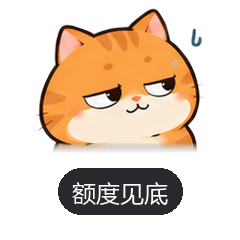
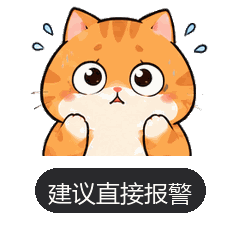
Expand the sticker pack from 8 to 24
- cut all 24 poses out of the new sheet; it has no alpha channel (the
  checkerboard is baked into the pixels), so separate them by hue: the
  board is neutral grey, the cat is warm. Verified 0 interior holes and
  0 pale-halo pixels across all 24 on magenta, dark and light
- 24 is a proper WeChat pack size, which removes the 'too few / same
  expression' review risk the 8-sticker version had
- add 16 new lines in the app's voice for the new poses
- quantised to 256 colours: the whole pack is 544KB
- the gallery now shows all 24 and can be shared as a link

Changed region(s): [[0.1167, 0.0292, 0.875, 0.6708], [0.1458, 0.7, 0.875, 0.9042]]

diff --git a/stickers/index.html b/stickers/index.html
@@ -5,7 +5,7 @@
 <meta name="viewport" content="width=device-width, initial-scale=1.0, viewport-fit=cover">
 <meta name="theme-color" content="#000000">
 <link rel="icon" href="../favicon.svg" type="image/svg+xml">
-<title>就一口 · 表情包</title>
+<title>就一口 · 表情包 24 张</title>
 <style>
   :root { --line: rgba(255,255,255,.10); --t2: rgba(235,235,245,.60); --t3: rgba(235,235,245,.34); }
   * { margin:0; padding:0; box-sizing:border-box; -webkit-tap-highlight-color:transparent; }
@@ -33,19 +33,18 @@
     backdrop-filter:blur(30px) saturate(180%); -webkit-backdrop-filter:blur(30px) saturate(180%);
   }
   .hint b { color:#fff; font-weight:600; }
-  .grid { display:grid; grid-template-columns:repeat(2,1fr); gap:14px; }
+  .grid { display:grid; grid-template-columns:repeat(3,1fr); gap:10px; }
   figure {
-    background:rgba(28,28,30,.66); border:.5px solid var(--line); border-radius:20px;
-    padding:10px; margin:0; backdrop-filter:blur(30px) saturate(180%);
+    background:rgba(28,28,30,.66); border:.5px solid var(--line); border-radius:16px;
+    padding:6px; margin:0; backdrop-filter:blur(30px) saturate(180%);
     -webkit-backdrop-filter:blur(30px) saturate(180%);
   }
-  figure img { width:100%; height:auto; display:block; border-radius:14px; }
-  figcaption { font-size:12px; color:var(--t2); padding:8px 2px 2px; text-align:center; }
+  figure img { width:100%; height:auto; display:block; border-radius:11px; }
+  figcaption { font-size:10px; color:var(--t2); padding:5px 1px 1px; text-align:center; line-height:1.3; }
   .sec { font-size:13px; font-weight:600; color:var(--t2); letter-spacing:.06em;
          text-transform:uppercase; margin:30px 2px 12px; }
   .banner { width:100%; height:auto; border-radius:18px; display:block;
             border:.5px solid var(--line); }
-  .wide { grid-template-columns:1fr; }
   footer { font-size:12px; color:var(--t3); margin-top:30px; line-height:1.7; }
   a { color:#0a84ff; text-decoration:none; }
 </style>
@@ -53,25 +52,44 @@
 <body>
 <header>
   <h1>就一口</h1>
-  <div class="sub">没吃多少 · 表情包 · 一套 8 张</div>
+  <div class="sub">没吃多少 · 表情包 · 一套 24 张</div>
 </header>
-
 <main>
   <div class="hint">
     <b>手机上长按任意一张，选「保存图片」</b>即可存进相册。<br>
-    电脑上右键另存为。整套打包在 <a href="https://github.com/iorlchotae/not-that-much">GitHub 仓库</a> 的 <code>stickers/</code> 里。
+    整套打包在 <a href="https://github.com/iorlchotae/not-that-much">GitHub 仓库</a> 的 <code>stickers/</code>（含 240×240 无文字版）。
   </div>
 
-  <div class="sec">表情 01–08</div>
-  <div class="grid" id="grid"></div>
+  <div class="sec">表情 01–24</div>
+  <div class="grid">
+    <figure><img src="caption/01.png" alt="得意：还很宽裕～" loading="lazy"><figcaption>01 得意 · 还很宽裕～</figcaption></figure>
+    <figure><img src="caption/02.png" alt="心虚：额度见底" loading="lazy"><figcaption>02 心虚 · 额度见底</figcaption></figure>
+    <figure><img src="caption/03.png" alt="满足：一切正常" loading="lazy"><figcaption>03 满足 · 一切正常</figcaption></figure>
+    <figure><img src="caption/04.png" alt="震惊：建议直接报警" loading="lazy"><figcaption>04 震惊 · 建议直接报警</figcaption></figure>
+    <figure><img src="caption/05.png" alt="馋：就一口" loading="lazy"><figcaption>05 馋 · 就一口</figcaption></figure>
+    <figure><img src="caption/06.png" alt="睡觉：今天还一口没动" loading="lazy"><figcaption>06 睡觉 · 今天还一口没动</figcaption></figure>
+    <figure><img src="caption/07.png" alt="刷手机：先记一下再说" loading="lazy"><figcaption>07 刷手机 · 先记一下再说</figcaption></figure>
+    <figure><img src="caption/08.png" alt="大口吃：补充能量而已" loading="lazy"><figcaption>08 大口吃 · 补充能量而已</figcaption></figure>
+    <figure><img src="caption/09.png" alt="偷看：我就瞄一眼" loading="lazy"><figcaption>09 偷看 · 我就瞄一眼</figcaption></figure>
+    <figure><img src="caption/10.png" alt="吃饱了：真的饱了（并没有）" loading="lazy"><figcaption>10 吃饱了 · 真的饱了（并没有）</figcaption></figure>
+    <figure><img src="caption/11.png" alt="超标了：今天到此为止" loading="lazy"><figcaption>11 超标了 · 今天到此为止</figcaption></figure>
+    <figure><img src="caption/12.png" alt="算了吧：明天一定" loading="lazy"><figcaption>12 算了吧 · 明天一定</figcaption></figure>
+    <figure><img src="caption/13.png" alt="喝饮料：这个不算热量吧" loading="lazy"><figcaption>13 喝饮料 · 这个不算热量吧</figcaption></figure>
+    <figure><img src="caption/14.png" alt="再来一口：最后一口" loading="lazy"><figcaption>14 再来一口 · 最后一口</figcaption></figure>
+    <figure><img src="caption/15.png" alt="清盘：不能浪费" loading="lazy"><figcaption>15 清盘 · 不能浪费</figcaption></figure>
+    <figure><img src="caption/16.png" alt="自我安慰：没吃多少" loading="lazy"><figcaption>16 自我安慰 · 没吃多少</figcaption></figure>
+    <figure><img src="caption/17.png" alt="生气：谁动了我的额度" loading="lazy"><figcaption>17 生气 · 谁动了我的额度</figcaption></figure>
+    <figure><img src="caption/18.png" alt="委屈：我真的没吃多少" loading="lazy"><figcaption>18 委屈 · 我真的没吃多少</figcaption></figure>
+    <figure><img src="caption/19.png" alt="打滚：吃撑了，动不了" loading="lazy"><figcaption>19 打滚 · 吃撑了，动不了</figcaption></figure>
+    <figure><img src="caption/20.png" alt="享受：这一口值了" loading="lazy"><figcaption>20 享受 · 这一口值了</figcaption></figure>
+    <figure><img src="caption/21.png" alt="盯着：盯久了就不饿了" loading="lazy"><figcaption>21 盯着 · 盯久了就不饿了</figcaption></figure>
+    <figure><img src="caption/22.png" alt="装酷：减肥这事我很在行" loading="lazy"><figcaption>22 装酷 · 减肥这事我很在行</figcaption></figure>
+    <figure><img src="caption/23.png" alt="好吧…：那就明天再减" loading="lazy"><figcaption>23 好吧… · 那就明天再减</figcaption></figure>
+    <figure><img src="caption/24.png" alt="生活很美好：吃饱了才有力气减" loading="lazy"><figcaption>24 生活很美好 · 吃饱了才有力气减</figcaption></figure>
+  </div>
 
   <div class="sec">横版图</div>
-  <div class="grid wide">
-    <figure>
-      <img src="banner@2x.png" alt="吃得再多 也要装作没吃多少">
-      <figcaption>吃得再多，也要装作没吃多少</figcaption>
-    </figure>
-  </div>
+  <img class="banner" src="banner@2x.png" alt="吃得再多 也要装作没吃多少">
 
   <footer>
     角色「就一口」——一只对自己的食量毫无正确认知的橘猫。<br>
@@ -79,15 +97,5 @@
     App 在 <a href="../">这里</a>。
   </footer>
 </main>
-
-<script>
-  const CAP = ['还很宽裕～','一切正常','就一口','额度见底','今日份自律','不怪食物，怪我嘴','建议直接报警','今天还一口没动'];
-  const ZH  = ['得意','满足','馋','心虚','害羞','委屈','震惊','睡觉'];
-  document.getElementById('grid').innerHTML = CAP.map((c, i) => {
-    const n = String(i + 1).padStart(2, '0');
-    return `<figure><img src="caption/${n}.png" alt="${ZH[i]}：${c}" loading="lazy">
-            <figcaption>${n} ${ZH[i]} · ${c}</figcaption></figure>`;
-  }).join('');
-</script>
 </body>
 </html>

diff --git a/stickers/文案对照表.md b/stickers/文案对照表.md
@@ -1,28 +1,42 @@
-# 没吃多少 · 表情包《就一口》
+# 没吃多少 · 表情包《就一口》· 24 张
 
-角色：橘猫「就一口」。
-打包日期：2026-10-01
+角色：橘猫「就一口」。数量 **24 张**，是微信表情开放平台的正规规格（8 / 16 / 24 / 32 / 40）。
 
 ---
 
-## 一、8 张表情与文案对照
+## 一、24 张表情与文案对照
 
-上传时按顺序拖入主图，再把「中文说明」逐个填进平台的表情说明栏。
+上传时先拖主图，再把「中文说明」逐条填进平台的表情说明栏。
 
 | 编号 | 文件 | 表情 | 中文说明（填平台） |
 | --- | --- | --- | --- |
 | 01 | `main/01.png` | 得意 | 还很宽裕～ |
-| 02 | `main/02.png` | 满足 | 一切正常 |
-| 03 | `main/03.png` | 馋 | 就一口 |
-| 04 | `main/04.png` | 心虚 | 额度见底 |
-| 05 | `main/05.png` | 害羞 | 今日份自律 |
-| 06 | `main/06.png` | 委屈 | 不怪食物，怪我嘴 |
-| 07 | `main/07.png` | 震惊 | 建议直接报警 |
-| 08 | `main/08.png` | 睡觉 | 今天还一口没动 |
+| 02 | `main/02.png` | 心虚 | 额度见底 |
+| 03 | `main/03.png` | 满足 | 一切正常 |
+| 04 | `main/04.png` | 震惊 | 建议直接报警 |
+| 05 | `main/05.png` | 馋 | 就一口 |
+| 06 | `main/06.png` | 睡觉 | 今天还一口没动 |
+| 07 | `main/07.png` | 刷手机 | 先记一下再说 |
+| 08 | `main/08.png` | 大口吃 | 补充能量而已 |
+| 09 | `main/09.png` | 偷看 | 我就瞄一眼 |
+| 10 | `main/10.png` | 吃饱了 | 真的饱了（并没有） |
+| 11 | `main/11.png` | 超标了 | 今天到此为止 |
+| 12 | `main/12.png` | 算了吧 | 明天一定 |
+| 13 | `main/13.png` | 喝饮料 | 这个不算热量吧 |
+| 14 | `main/14.png` | 再来一口 | 最后一口 |
+| 15 | `main/15.png` | 清盘 | 不能浪费 |
+| 16 | `main/16.png` | 自我安慰 | 没吃多少 |
+| 17 | `main/17.png` | 生气 | 谁动了我的额度 |
+| 18 | `main/18.png` | 委屈 | 我真的没吃多少 |
+| 19 | `main/19.png` | 打滚 | 吃撑了，动不了 |
+| 20 | `main/20.png` | 享受 | 这一口值了 |
+| 21 | `main/21.png` | 盯着 | 盯久了就不饿了 |
+| 22 | `main/22.png` | 装酷 | 减肥这事我很在行 |
+| 23 | `main/23.png` | 好吧… | 那就明天再减 |
+| 24 | `main/24.png` | 生活很美好 | 吃饱了才有力气减 |
 
-文案全部取自 App 的文案库（`index.html` 里的
-`LADDER_LINES` / `GOOD_LINES` / `OVER_LINES` / `HIDDEN_LINES`），
-所以表情和 App 里同一天会说出口的话是一致的。
+文案延续 App 的文案库语气（`index.html` 里的 `LADDER_LINES` / `GOOD_LINES` / `OVER_LINES` / `HIDDEN_LINES`），
+所以表情和 App 里会说的话是同一套声音。
 
 ---
 
@@ -30,44 +44,43 @@
 
 | 目录 / 文件 | 尺寸 | 格式 | 用途 |
 | --- | --- | --- | --- |
-| `main/01–08.png` | 240×240 | PNG 透明底 | **表情主图**（无文字版） |
-| `caption/01–08.png` | 240×240 | PNG 透明底 | 图文版，**小红书传播用**（平台不传这个） |
-| `thumb/01–08.png` | 120×120 | PNG 透明底 | **表情缩略图** |
-| `cover.png` | 240×240 | PNG 透明底 | **表情封面图** |
+| `main/01–24.png` | 240×240 | PNG 透明底 | **表情主图**（无文字，平台提交用） |
+| `caption/01–24.png` | 240×240 | PNG 透明底 | 图文版，**小红书传播用**（不传平台） |
+| `thumb/01–24.png` | 120×120 | PNG 透明底 | **表情缩略图** |
+| `cover.png` | 240×240 | PNG 透明底 | **封面图**（用「自我安慰」那张举牌猫） |
 | `icon.png` | 50×50 | PNG 透明底 | **聊天页图标** |
 | `banner.png` | 750×400 | PNG | **详情页横幅** |
-| `banner@2x.png` | 1500×800 | PNG | 小红书用（平台不传） |
-| `preview.png` | — | PNG | 总览图，给合作方/自己看 |
+| `banner@2x.png` | 1500×800 | PNG | 高分辨率版，小红书用 |
+| `preview.png` | — | PNG | 总览图 |
 
-全部尺寸已用脚本逐张校验（`_preview.py` 的 format audit，28 项全 OK）。
+全部尺寸已逐张脚本校验（`_preview24.py`，0 failures）。整套 **544KB**。
 
 ---
 
 ## 三、平台提交顺序
 
-1. 先传 **横幅** `banner.png`（750×400）
-2. 选「静态表情」
-3. 拖入 **8 张主图** `main/01–08.png`
-4. 再拖入 **8 张缩略图** `thumb/01–08.png`
-5. 填 8 条中文说明（见上表）
-6. 传 **封面图** `cover.png` 和 **聊天页图标** `icon.png`
-7. 赞赏部分可跳过
-8. 提交审核
+1. 先传 **横幅** `banner.png`
+2. 选「静态表情」，数量选 **24**
+3. 拖入 24 张 **主图** `main/01–24.png`
+4. 再拖入 24 张 **缩略图** `thumb/01–24.png`
+5. 填 24 条中文说明（见上表）
+6. 传 **封面图** `cover.png` 与 **聊天页图标** `icon.png`
+7. 赞赏部分可跳过 → 提交审核
 
 ---
 
-## 四、必须知道的审核风险
+## 四、审核风险
 
-一位实际提交过的开发者[明确记录](https://www.cnblogs.com/loseself/p/16240569.html)：
-他做的**文字表情「通过不了审核」**，被拒理由是「**留白太多、表情单一**」。
+上一版只有 8 张时，我提示过「表情单一」可能被判不过（有开发者因[文字表情、留白太多、表情单一被拒](https://www.cnblogs.com/loseself/p/16240569.html)）。
+现在 **24 张、24 个不同动作**，这个问题基本解决了。
 
-所以这套图有两个真实风险：
+剩下的风险只有一个：**`caption/` 图文版的文字占比偏大**，容易被判成「文字表情」。
+所以平台提交**只传 `main/` 无文字版**；`caption/` 留着发小红书，不受平台审核约束。
 
-- **`caption/` 图文版有被拒风险。** 文字占比大、留白少，容易被判「文字表情」。
-  平台提交建议只传 `main/` 无文字版；`caption/` 留着自己发小红书。
-- **只有 8 张、且都是同一只猫的半身像**，可能被判「表情单一」。
-  平台接受 8 张，但 16 / 24 张过审更稳。如果被拒，最省事的补救是补到 16 张
-  （三视图里的正面/侧面/背面 + 睡觉、馋等可以各拆一张）。
+---
 
-**如果最终目的是小红书传播而不是上架微信表情商店**，那可以直接用 `caption/` 那 8 张 ——
-它们本来就是按「发出去有人愿意转」设计的，不受平台审核约束。
+## 五、日后嵌入 App
+
+`main/` 里这 24 张 240×240 透明 PNG 就是为嵌入准备的 —— 比 App 里实际显示尺寸（46–58px）大得多，
+将来直接转 base64 内联进 `index.html` 即可，和现在那 8 张的处理方式完全一样
+（见 App 仓库里的 `CAT_ART` 常量与 `catImg()`）。

diff --git a/README.md b/README.md
@@ -48,18 +48,21 @@
 它出现在四个地方：**标题旁**、**热量环形卡里**（表情跟着当天状态走，配对话气泡）、
 **拍照识别时**（探头看一眼盘子：「看起来不太清白…」）、**分享卡片右上角**。
 
-### 表情包
+### 表情包《就一口》
 
-同一批表情也打包成了一套微信规格的表情包，放在 [`stickers/`](stickers)：
+同一批角色也做成了**一套 24 张**的表情包，放在 [`stickers/`](stickers)：
 
 - **在线画廊**：https://iorlchotae.github.io/not-that-much/stickers/ （手机上长按即可保存）
-- 主图 240×240 / 缩略图 120×120 / 封面 240×240 / 聊天页图标 50×50 / 详情页横幅 750×400，全部透明底 PNG
-- 每张配的文案直接取自 App 的文案库，所以表情和 App 里同一天会说的话是一致的
-- 详细清单和平台提交顺序见 [`stickers/文案对照表.md`](stickers/文案对照表.md)
+- **24 张**是微信表情开放平台的正规规格（8 / 16 / 24 / 32 / 40），
+  主图 240×240、缩略图 120×120、封面 240×240、聊天页图标 50×50、详情页横幅 750×400，全部透明底
+- 24 个动作：得意 / 心虚 / 满足 / 震惊 / 馋 / 睡觉 / 刷手机 / 大口吃 / 偷看 / 吃饱了 / 超标了 / 算了吧 /
+  喝饮料 / 再来一口 / 清盘 / 自我安慰 / 生气 / 委屈 / 打滚 / 享受 / 盯着 / 装酷 / 好吧… / 生活很美好
+- 每张配的文案延续 App 的文案库语气，所以表情和 App 里会说的话是同一套声音
+- 完整清单与平台提交顺序见 [`stickers/文案对照表.md`](stickers/文案对照表.md)
 
-**一个要提前知道的审核风险**：微信表情平台对「文字表情」和「留白太多、表情单一」的拒绝率不低
-（见[这位开发者的记录](https://www.cnblogs.com/loseself/p/16240569.html)）。
-所以包里准备了两个版本 —— `main/`（无文字，过审更稳）和 `caption/`（有文案，适合发小红书）。
+准备了两个版本：`main/`（无文字，**平台提交用**）和 `caption/`（有文案，**发小红书用**）。
+微信表情平台对「文字表情、留白太多、表情单一」的拒绝率不低
+（见[这位开发者的记录](https://www.cnblogs.com/loseself/p/16240569.html)），所以分开更稳。
 
 **实现**：原画来自形象设定卡。我把 8 个表情逐张抠出来（透明底、去掉设定卡自带的投影），
 量化成 256 色后**内联为 base64 data URI** —— **没有外部图片文件**，所以这个项目仍然是
